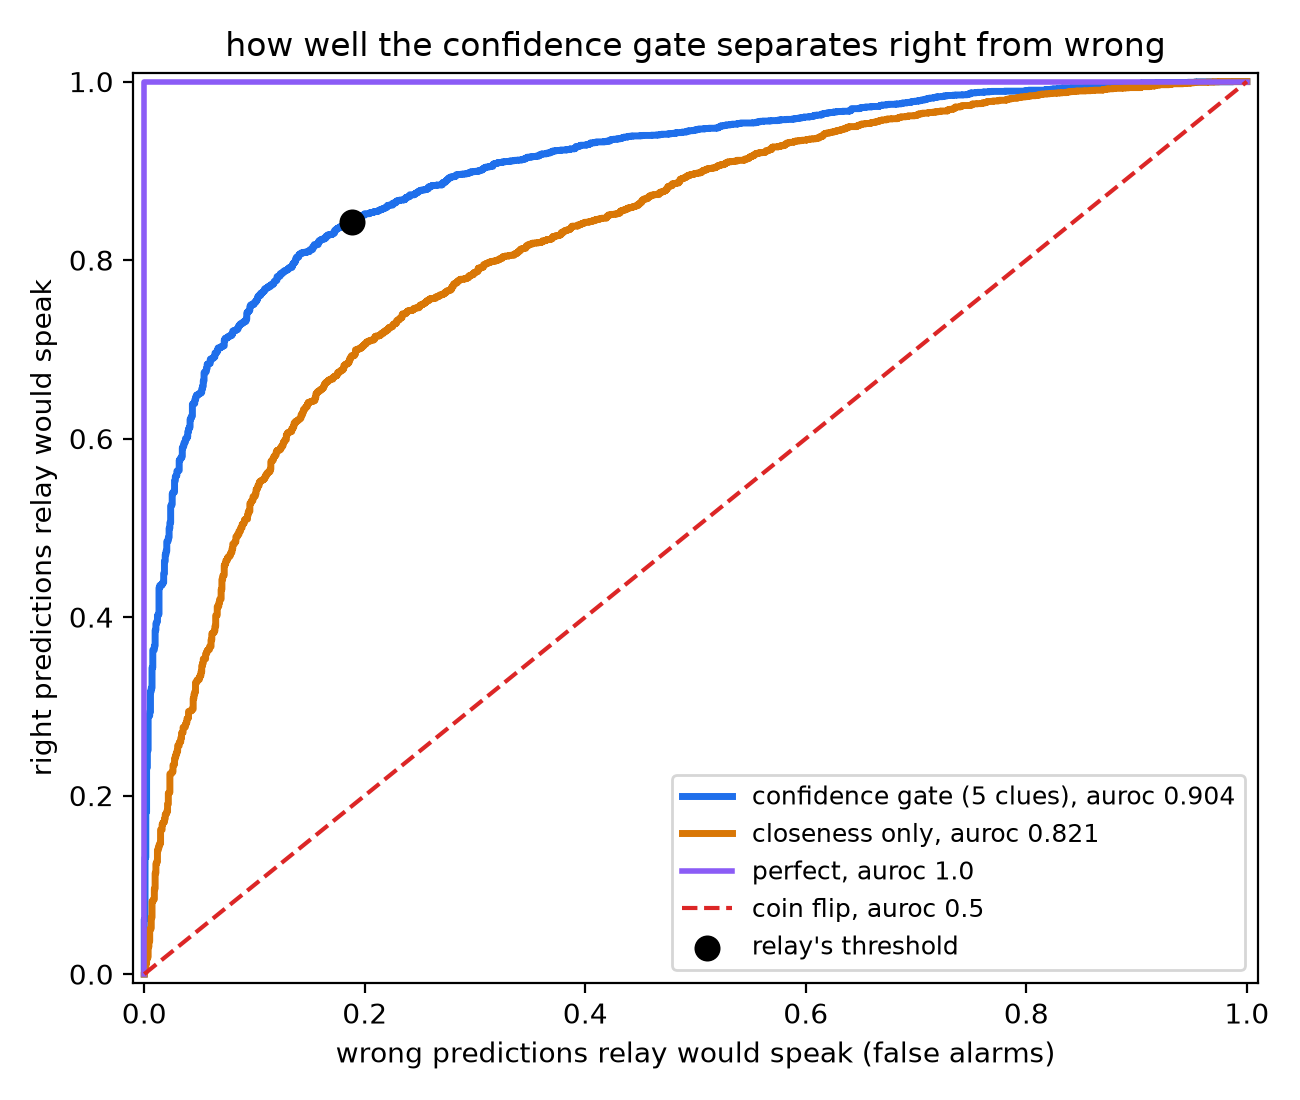
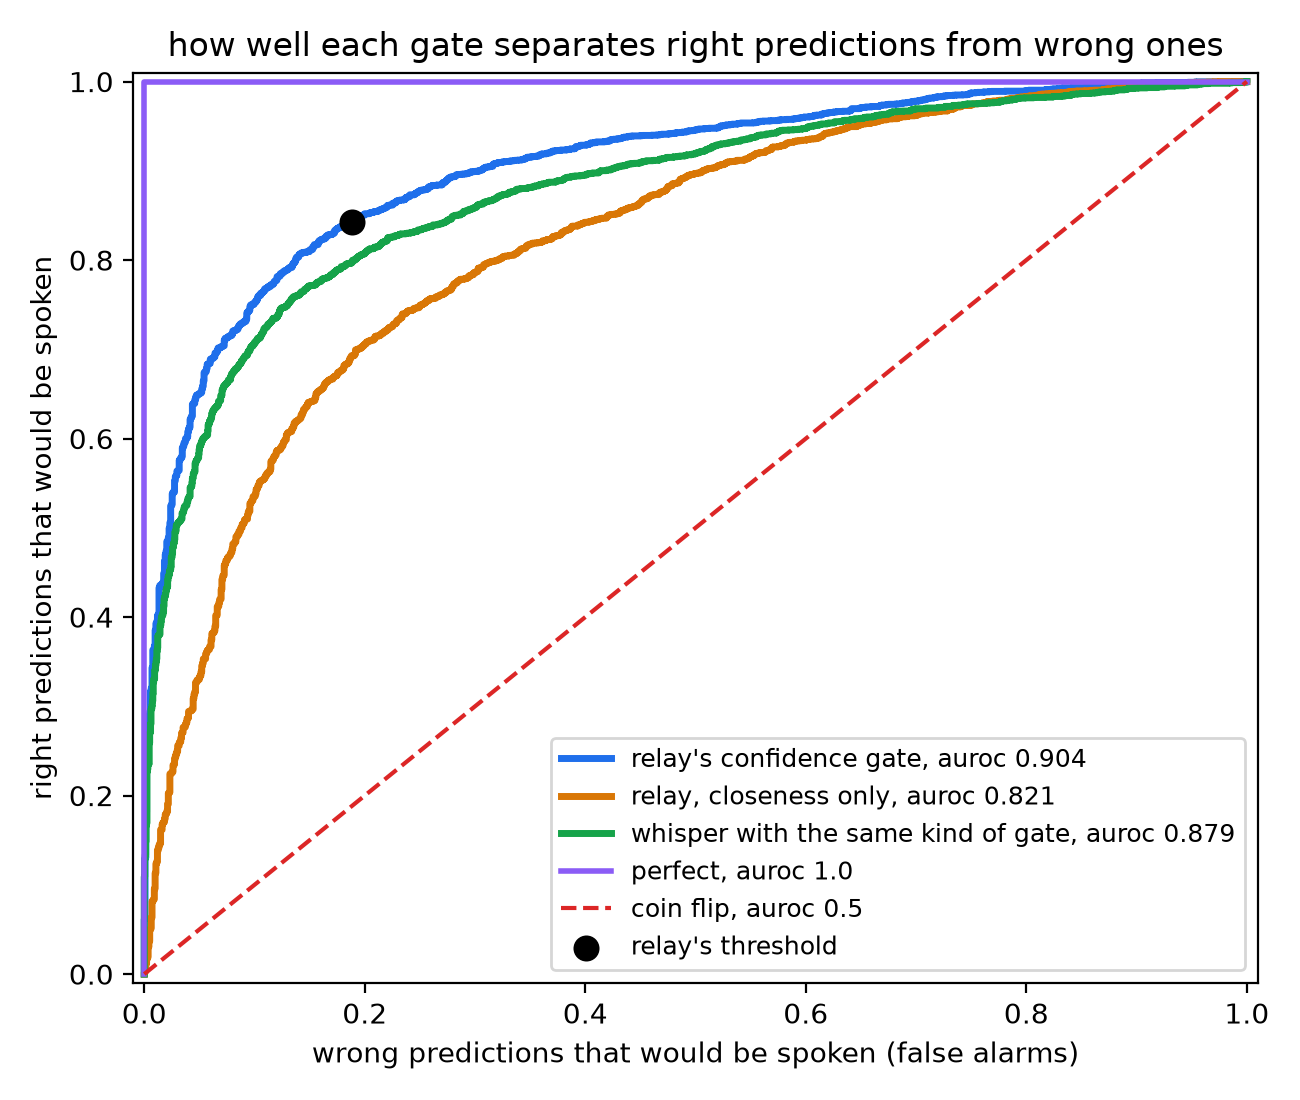
update roc curve

diff --git a/readme.md b/readme.md
@@ -69,9 +69,9 @@ all numbers are on the same 5,149 test recordings from the 27 speakers with dysa
 
 false alarms (relay speaks a wrong word) drop from 27.6% of all tries without the gate to 5.0% and land right at the 5% target even though the threshold was set on other speakers. missed cases (relay shows three even though its prediction was right) are 11.4% of tries. when relay shows three, the right word is among them 56.1% of the time, and if relay had spoken its best guess instead it would be right only 33.6% of the time. in total, the right word is spoken or shown on 80.1% of all tries.
 
-to check how well the confidence score separates right predictions from wrong ones, we used auroc. if you pick one try where relay was right and one where it was wrong, auroc is how often the gate gives the right one the higher score. relay's gate scores **0.904**, so about 9 times out of 10. using closeness alone scores 0.821, so the other four clues add a lot.
+to check how well the confidence score separates right predictions from wrong ones, we used auroc. if you pick one try where relay was right and one where it was wrong, auroc is how often the gate gives the right one the higher score. relay's gate scores **0.904**, so about 9 times out of 10. using closeness alone scores 0.821, so the other four clues add a lot. putting the same kind of gate on whisper scores 0.879.
 
-![roc curve of the confidence gate](roc.png)
+<img src="roc.png" width="450" alt="roc curve of the confidence gate">
 
 **by severity:**
 
